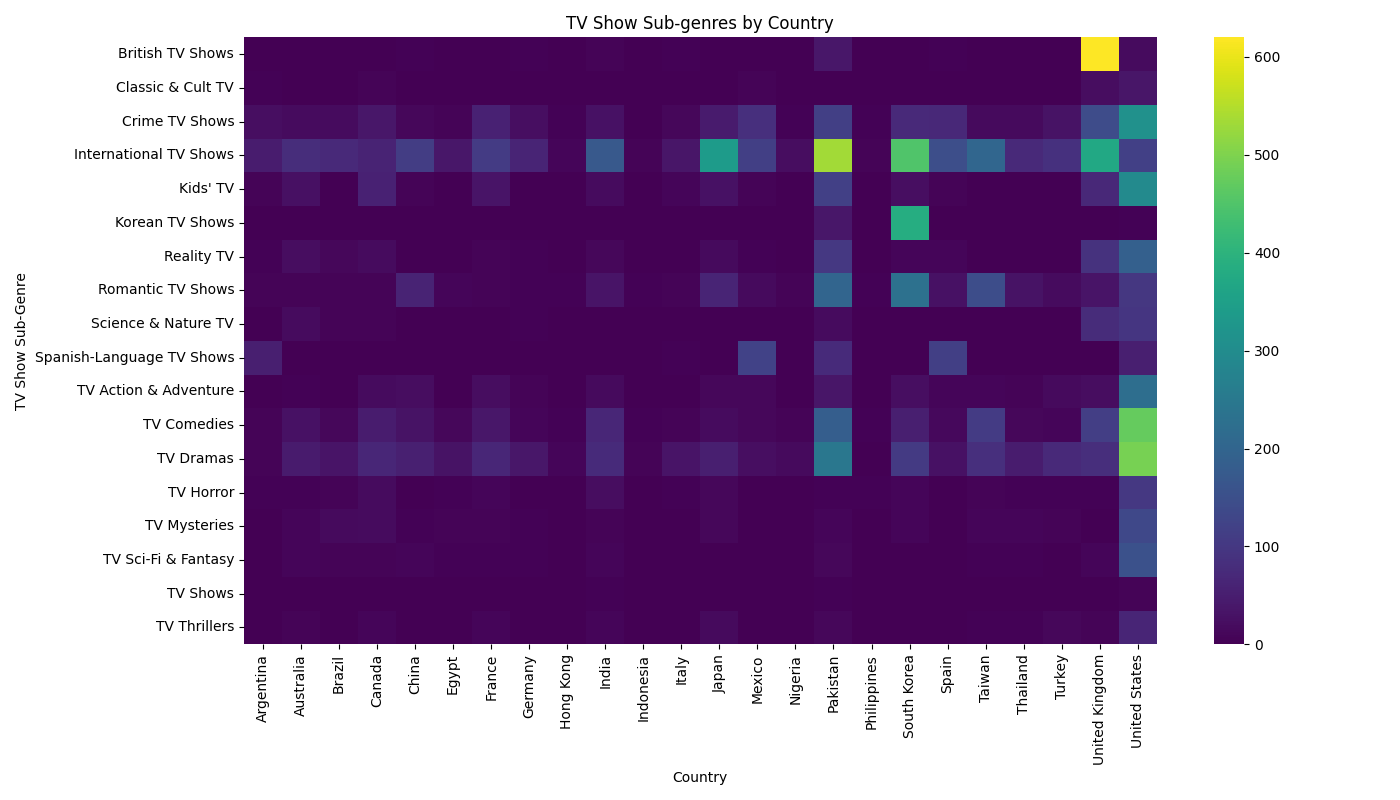
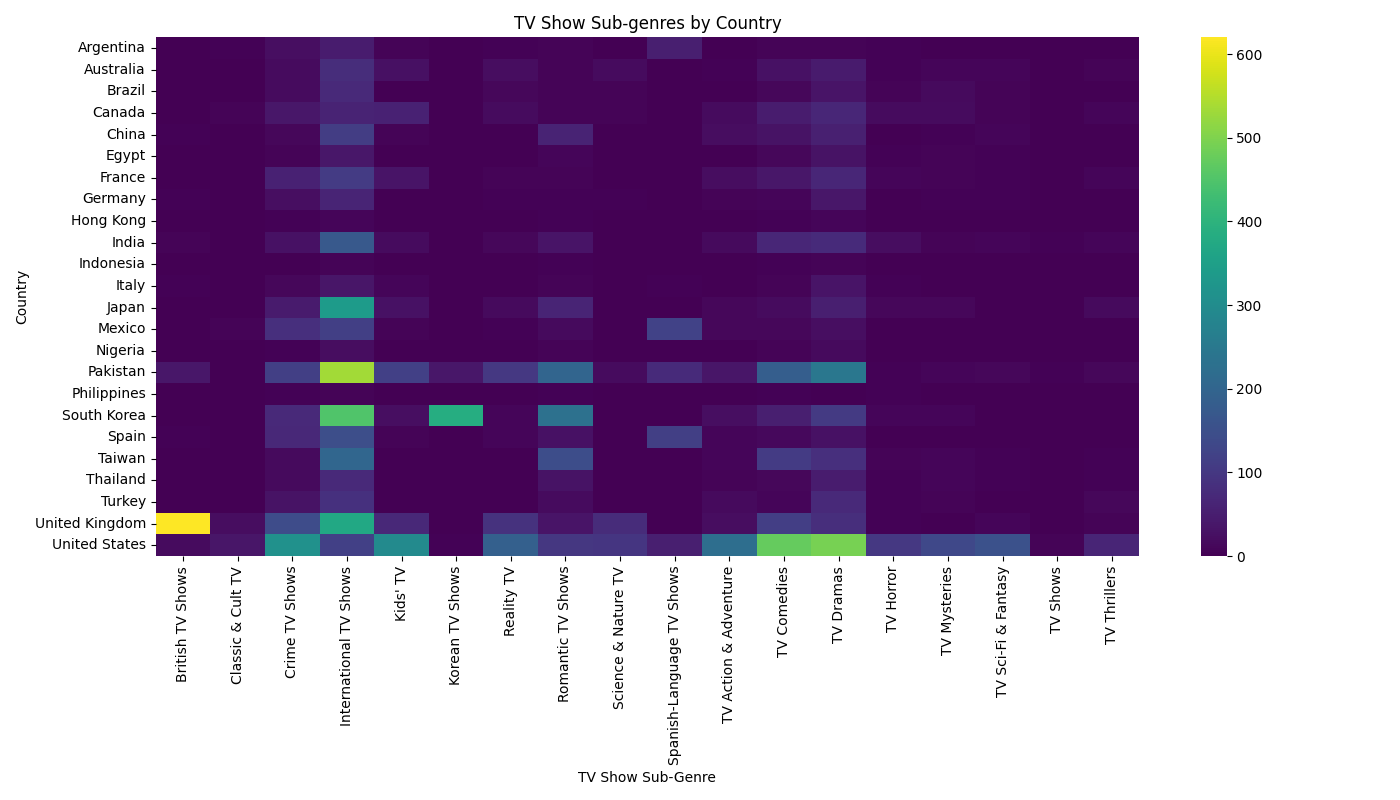
correction in graph 7

diff --git a/src/analyzer.py b/src/analyzer.py
@@ -521,13 +521,13 @@ class Analyzer:
         # Filter for TV Shows
         df_tv_show = df[df['genre_group'] == 'TV Show']
         # Count (Genre, Country) pairs
-        tv_show_subgenre_by_country = pd.crosstab(df_tv_show['Genre'], df_tv_show['country'])
+        tv_show_subgenre_by_country = pd.crosstab(df_tv_show['country'], df_tv_show['Genre'])
         
         plt.figure(figsize=(14, 8))
         sns.heatmap(tv_show_subgenre_by_country, annot=False, cmap='viridis')
         plt.title('TV Show Sub-genres by Country')
-        plt.xlabel('Country')
-        plt.ylabel('TV Show Sub-Genre')
+        plt.xlabel('TV Show Sub-Genre')
+        plt.ylabel('Country')
         plt.tight_layout()
         plt.savefig("results/s2_7_tv_show_subgenres_by_country.png")
         plt.clf() # Clear figure for next plot
